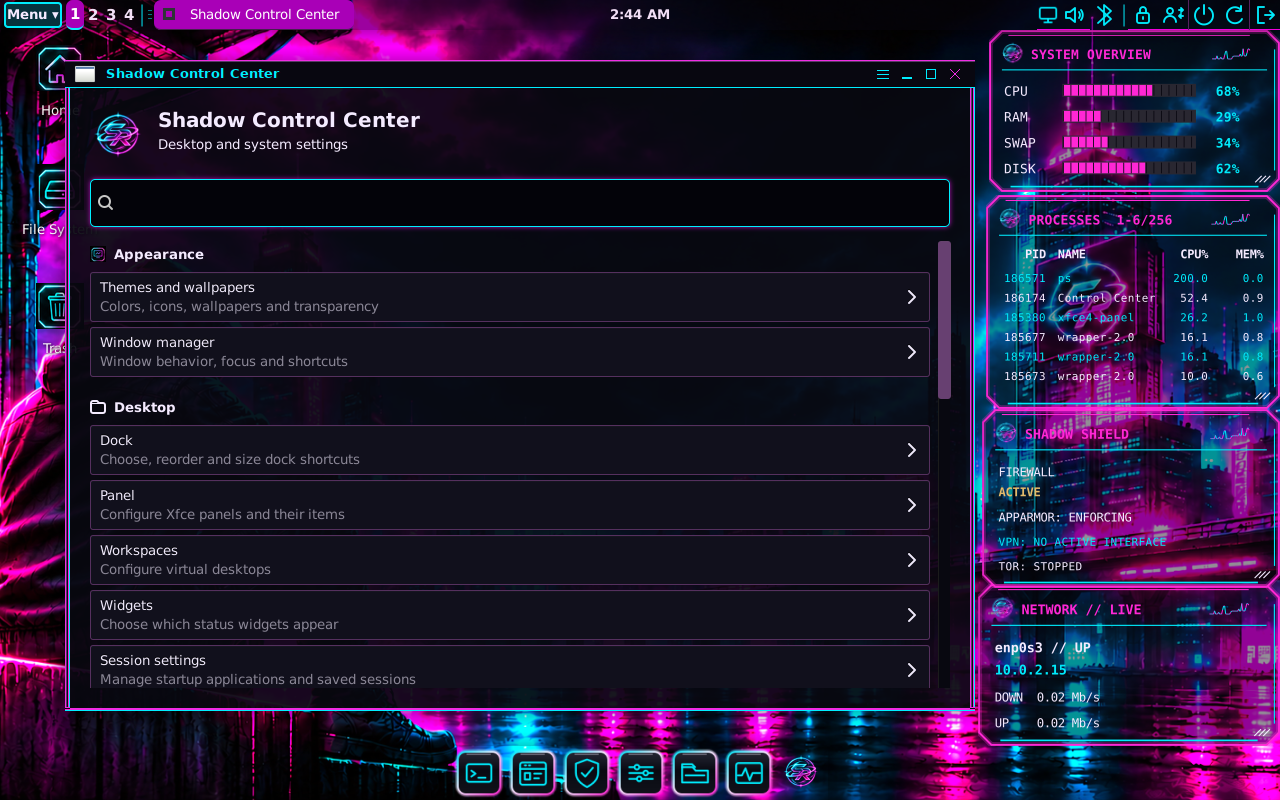
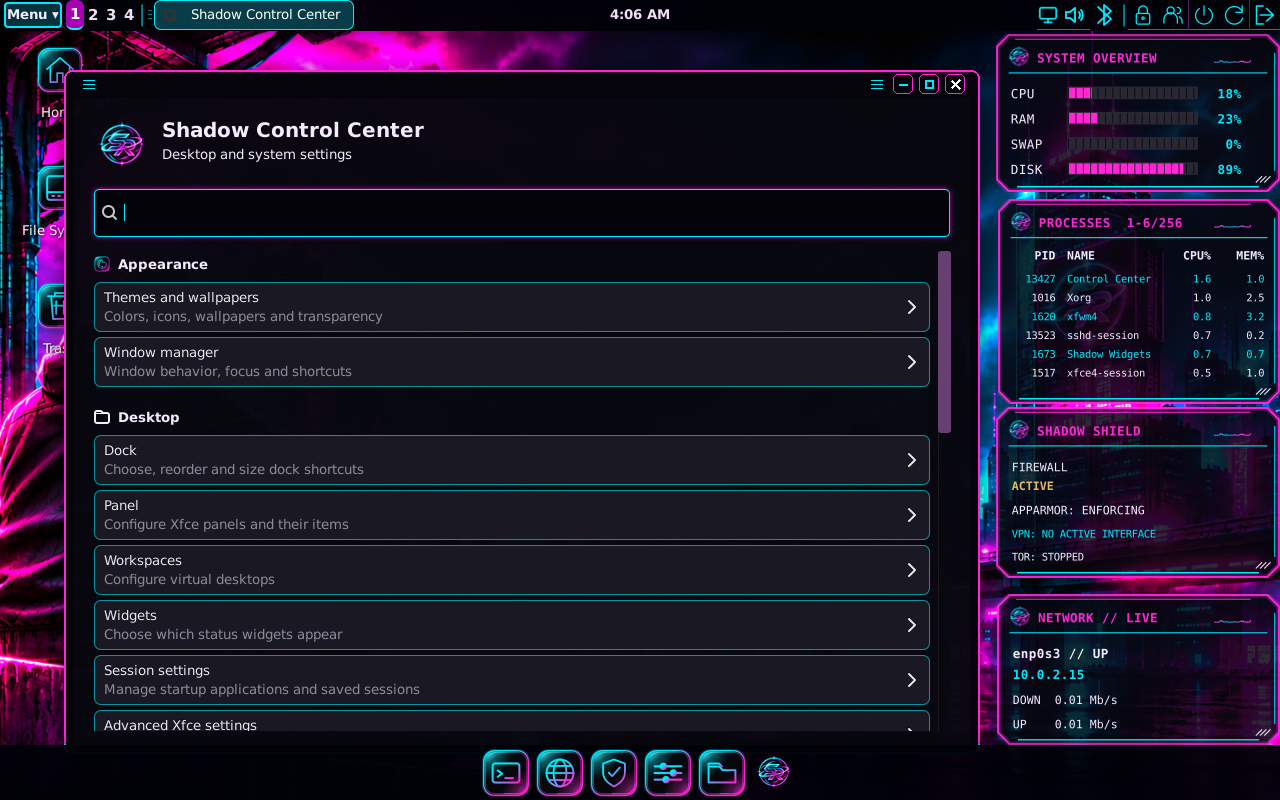
Refresh desktop, Control Center, terminal and system tool screenshots

diff --git a/website/index.html b/website/index.html
@@ -3,9 +3,9 @@
 <style>:root{color-scheme:dark}body{margin:0;background:#080a10;color:#e8edf5;font:17px/1.65 system-ui,sans-serif}main{max-width:1120px;margin:auto;padding:32px 24px 70px}a{color:#68e5f2}a:focus-visible{outline:3px solid #ff66d8;outline-offset:5px}.brand{display:block;width:100%;max-width:880px;margin:0 auto 35px}h1,h2{line-height:1.2}h1{font-size:clamp(30px,5vw,52px);max-width:800px}.lede{color:#bdcadc;font-size:21px;max-width:840px}.badge{color:#ff8ce5;font-weight:700}.buttons{display:flex;gap:16px;flex-wrap:wrap;margin:28px 0}.button{padding:12px 20px;border:1px solid #4bd6e7;border-radius:9px;text-decoration:none}.primary{background:#b8f8ff;color:#09141d;font-weight:700}.screen{width:100%;border:1px solid #273044;border-radius:12px;margin:12px 0}.grid{display:grid;grid-template-columns:repeat(auto-fit,minmax(min(100%,270px),1fr));gap:22px}.widget-grid{grid-template-columns:repeat(auto-fit,minmax(min(100%,280px),1fr))}.card{background:#10151f;border:1px solid #273044;border-radius:12px;padding:22px}small,footer{color:#a9b6c9}footer{border-top:1px solid #273044;margin-top:40px;padding-top:22px}li{margin:.45em 0}.tool-gallery{display:flex;gap:20px;overflow-x:auto;scroll-snap-type:x mandatory;padding:4px 0 18px}.tool-gallery figure{flex:0 0 min(100%,900px);margin:0;scroll-snap-align:start;background:#10151f;border:1px solid #273044;border-radius:12px;overflow:hidden}.tool-gallery img{display:block;width:100%;height:auto}.tool-gallery figcaption{padding:14px 18px;color:#bfcbdc}.tool-gallery strong{color:#e8edf5}@media(prefers-reduced-motion:no-preference){.tool-gallery{scroll-behavior:smooth}}</style>
 </head><body>
 <aside role="status" style="max-width:1080px;margin:24px auto;border:1px solid #a88a45;border-radius:10px;background:#211c12;color:#f2dfb0;padding:16px 20px"><strong>Website updates in progress</strong><br>We are reorganizing these pages and refreshing screenshots. Screenshots show the current desktop updates. The current beta download is unchanged.</aside>
-<main><img class="brand" src="https://raw.githubusercontent.com/AstraShadowsss/ShadowRealm-OS/main/branding/banner-neon.png" alt="ShadowRealm-OS SR logo and wordmark"><p class="badge">2026.11 beta 1 · AMD64</p><h1>A familiar Linux desktop with a style of its own.</h1><p class="lede">Built on Debian 13 and Xfce, ShadowRealm-OS brings applications, desktop controls and live status panels into one coordinated workspace. Try it from a USB drive or virtual machine before installing.</p><nav class="buttons"><a class="button primary" href="https://sourceforge.net/projects/shadowrealm-os/files/2026.11-beta1/ShadowRealm-OS-2026.11-beta1-r4-amd64.iso/download">Download the beta ISO</a><a class="button" href="https://astrashadowsss.github.io/ShadowRealm-OS/docs/installation.html">Installation guide</a><a class="button" href="https://github.com/AstraShadowsss/ShadowRealm-OS">Source and documentation</a><a class="button" href="https://shadowrealm-os.sourceforge.io/apt/">Updates &amp; Packages</a></nav><img class="screen" src="https://raw.githubusercontent.com/AstraShadowsss/ShadowRealm-OS/main/screenshots/desktop.png?v=20261123b" alt="Neon desktop with panel, dock and four local widgets">
+<main><img class="brand" src="https://raw.githubusercontent.com/AstraShadowsss/ShadowRealm-OS/main/branding/banner-neon.png" alt="ShadowRealm-OS SR logo and wordmark"><p class="badge">2026.11 beta 1 · AMD64</p><h1>A familiar Linux desktop with a style of its own.</h1><p class="lede">Built on Debian 13 and Xfce, ShadowRealm-OS brings applications, desktop controls and live status panels into one coordinated workspace. Try it from a USB drive or virtual machine before installing.</p><nav class="buttons"><a class="button primary" href="https://sourceforge.net/projects/shadowrealm-os/files/2026.11-beta1/ShadowRealm-OS-2026.11-beta1-r4-amd64.iso/download">Download the beta ISO</a><a class="button" href="https://astrashadowsss.github.io/ShadowRealm-OS/docs/installation.html">Installation guide</a><a class="button" href="https://github.com/AstraShadowsss/ShadowRealm-OS">Source and documentation</a><a class="button" href="https://shadowrealm-os.sourceforge.io/apt/">Updates &amp; Packages</a></nav><img class="screen" src="https://raw.githubusercontent.com/AstraShadowsss/ShadowRealm-OS/main/screenshots/desktop.png?v=20261126" alt="Neon desktop with panel, dock and four local widgets">
 <section class="grid"><article class="card"><h2>Make it yours</h2><p>Twelve coordinated palettes, independent icon and dock choices, drag-and-drop dock editing, separate wallpapers and configurable background transparency. Native third-party application icons stay recognizable. Shadow Icon Studio creates, previews and exports your own application icons in every palette. <a href="https://astrashadowsss.github.io/ShadowRealm-OS/docs/icon-studio.html">Icon Studio guide</a>.</p></article><article class="card"><h2>Everyday controls</h2><p>Network, audio, Bluetooth, accounts, appearance and software tools. Movable widgets display resources, traffic, processes and privacy-service status. Optional widgets add a clock, calendar, local notes and a weather forecast.</p></article><article class="card"><h2>Updates you control</h2><p>Debian and configured vendors provide their updates. A signed repository supplies custom desktop components and nine offline games. Software &amp; Updates shows available APT updates; Flatpak updates are separate.</p></article></section>
-<section id="terminal"><h2>Terminal</h2><p>A familiar shell with live system information, adjustable text and desktop-matched colors.</p><img class="screen" src="https://raw.githubusercontent.com/AstraShadowsss/ShadowRealm-OS/main/screenshots/terminal-current.png?v=20261123b" alt="Terminal running on the current desktop" loading="lazy"></section><h2>Control Center</h2><p>Network, audio, Bluetooth, accounts, appearance and software tools in one place.</p><img class="screen" src="https://raw.githubusercontent.com/AstraShadowsss/ShadowRealm-OS/main/screenshots/control-center-neon.png?v=20261123b" alt="Searchable Control Center in Neon" loading="lazy"><section id="widgets"><h2>Desktop widgets</h2><p>Eight independent widgets, shown together in Professional styling. They follow your desktop theme and can be moved, resized and customized separately.</p><section class="grid widget-grid"><article class="card"><h3>System overview</h3><a href="https://raw.githubusercontent.com/AstraShadowsss/ShadowRealm-OS/main/screenshots/widgets/system.png" target="_blank" rel="noopener"><img style="display:block;width:100%;max-width:270px;height:auto;border-radius:12px;margin:16px auto" src="https://raw.githubusercontent.com/AstraShadowsss/ShadowRealm-OS/main/screenshots/widgets/system.png" alt="System overview widget" loading="lazy"></a><p>CPU, memory, swap and system disk usage.</p></article><article class="card"><h3>Network</h3><a href="https://raw.githubusercontent.com/AstraShadowsss/ShadowRealm-OS/main/screenshots/widgets/network.png" target="_blank" rel="noopener"><img style="display:block;width:100%;max-width:270px;height:auto;border-radius:12px;margin:16px auto" src="https://raw.githubusercontent.com/AstraShadowsss/ShadowRealm-OS/main/screenshots/widgets/network.png" alt="Network widget" loading="lazy"></a><p>Active interface, address and live transfer rates in Mb/s.</p></article><article class="card"><h3>Processes</h3><a href="https://raw.githubusercontent.com/AstraShadowsss/ShadowRealm-OS/main/screenshots/widgets/processes.png" target="_blank" rel="noopener"><img style="display:block;width:100%;max-width:270px;height:auto;border-radius:12px;margin:16px auto" src="https://raw.githubusercontent.com/AstraShadowsss/ShadowRealm-OS/main/screenshots/widgets/processes.png" alt="Processes widget" loading="lazy"></a><p>Process names, PIDs, CPU and memory usage.</p></article><article class="card"><h3>Shadow Shield</h3><a href="https://raw.githubusercontent.com/AstraShadowsss/ShadowRealm-OS/main/screenshots/widgets/shield.png" target="_blank" rel="noopener"><img style="display:block;width:100%;max-width:270px;height:auto;border-radius:12px;margin:16px auto" src="https://raw.githubusercontent.com/AstraShadowsss/ShadowRealm-OS/main/screenshots/widgets/shield.png" alt="Shadow Shield widget" loading="lazy"></a><p>Firewall, AppArmor, Tor and VPN service status.</p></article><article class="card"><h3>Clock</h3><a href="https://raw.githubusercontent.com/AstraShadowsss/ShadowRealm-OS/main/screenshots/widgets/clock.png" target="_blank" rel="noopener"><img style="display:block;width:100%;max-width:270px;height:auto;border-radius:12px;margin:16px auto" src="https://raw.githubusercontent.com/AstraShadowsss/ShadowRealm-OS/main/screenshots/widgets/clock.png" alt="Clock widget" loading="lazy"></a><p>An independent, easy-to-read local clock.</p></article><article class="card"><h3>Calendar</h3><a href="https://raw.githubusercontent.com/AstraShadowsss/ShadowRealm-OS/main/screenshots/widgets/calendar.png" target="_blank" rel="noopener"><img style="display:block;width:100%;max-width:270px;height:auto;border-radius:12px;margin:16px auto" src="https://raw.githubusercontent.com/AstraShadowsss/ShadowRealm-OS/main/screenshots/widgets/calendar.png" alt="Calendar widget" loading="lazy"></a><p>Month view with today&#x27;s date highlighted.</p></article><article class="card"><h3>Notes</h3><a href="https://raw.githubusercontent.com/AstraShadowsss/ShadowRealm-OS/main/screenshots/widgets/notes.png" target="_blank" rel="noopener"><img style="display:block;width:100%;max-width:270px;height:auto;border-radius:12px;margin:16px auto" src="https://raw.githubusercontent.com/AstraShadowsss/ShadowRealm-OS/main/screenshots/widgets/notes.png" alt="Notes widget" loading="lazy"></a><p>A small place to keep local notes and reminders.</p></article><article class="card"><h3>Weather</h3><a href="https://raw.githubusercontent.com/AstraShadowsss/ShadowRealm-OS/main/screenshots/widgets/weather.png" target="_blank" rel="noopener"><img style="display:block;width:100%;max-width:270px;height:auto;border-radius:12px;margin:16px auto" src="https://raw.githubusercontent.com/AstraShadowsss/ShadowRealm-OS/main/screenshots/widgets/weather.png" alt="Weather widget" loading="lazy"></a><p>An optional forecast for a manually chosen location.</p></article></section><details class="card widget-customization"><summary>Arrange and customize your widgets</summary><p>Choose which panels appear, adjust their text, graph and bar colors, and set background transparency. Theme follows the shared background setting in Appearance.</p><img class="screen" src="https://raw.githubusercontent.com/AstraShadowsss/ShadowRealm-OS/main/screenshots/widget-customization.png?v=20261123b" alt="Current widget controls in the Professional desktop" loading="lazy"></details><p><a href="https://astrashadowsss.github.io/ShadowRealm-OS/docs/widgets.html">Explore the widget controls</a></p></section><h2>System tools</h2><p>Scroll through the panels, or select an image to open it at full size.</p><nav class="buttons" aria-label="System tool previews"><a class="button" href="#tools-network">Network</a><a class="button" href="#tools-shield">Shadow Shield</a><a class="button" href="#tools-software-updates">Software &amp; Updates</a></nav><div class="tool-gallery" tabindex="0" aria-label="System tool screenshots"><figure id="tools-network"><a href="https://raw.githubusercontent.com/AstraShadowsss/ShadowRealm-OS/main/screenshots/system-tools/network.png?v=20261123b" target="_blank" rel="noopener"><img src="https://raw.githubusercontent.com/AstraShadowsss/ShadowRealm-OS/main/screenshots/system-tools/network.png?v=20261123b" alt="Network window" width="1100" height="650" loading="lazy"></a><figcaption><strong>Network</strong><br>Connection, Wi-Fi, DNS, VPN and airplane mode.</figcaption></figure><figure id="tools-shield"><a href="https://raw.githubusercontent.com/AstraShadowsss/ShadowRealm-OS/main/screenshots/system-tools/shield.png?v=20261123b" target="_blank" rel="noopener"><img src="https://raw.githubusercontent.com/AstraShadowsss/ShadowRealm-OS/main/screenshots/system-tools/shield.png?v=20261123b" alt="Shadow Shield window" width="1100" height="650" loading="lazy"></a><figcaption><strong>Shadow Shield</strong><br>Firewall rules and privacy-service controls.</figcaption></figure><figure id="tools-software-updates"><a href="https://raw.githubusercontent.com/AstraShadowsss/ShadowRealm-OS/main/screenshots/system-tools/software-updates.png?v=20261123b" target="_blank" rel="noopener"><img src="https://raw.githubusercontent.com/AstraShadowsss/ShadowRealm-OS/main/screenshots/system-tools/software-updates.png?v=20261123b" alt="Software &amp; Updates window" width="1100" height="650" loading="lazy"></a><figcaption><strong>Software &amp; Updates</strong><br>Installed applications, package removal and updates.</figcaption></figure></div><section id="applications"><h2>Applications</h2><p>Search and browse installed applications by category. The dock keeps the shortcuts you choose.</p><img class="screen" src="https://raw.githubusercontent.com/AstraShadowsss/ShadowRealm-OS/main/screenshots/application-menu.png?v=20261123b" alt="Categorized application menu" loading="lazy"></section><section id="icon-studio"><h2>Shadow Icon Studio</h2><p>Load your own artwork or the built-in Prism sample, then see it in all twelve palettes before changing anything. Apply an icon to a chosen application, save it to a personal library, or export it as SVG and PNG files for use elsewhere. No account, network connection or administrator rights are needed.</p><img class="screen" src="https://raw.githubusercontent.com/AstraShadowsss/ShadowRealm-OS/main/screenshots/icon-studio.png?v=20261126" alt="Shadow Icon Studio showing the Prism sample with all twelve palette previews" loading="lazy"><p><a href="https://astrashadowsss.github.io/ShadowRealm-OS/docs/icon-studio.html">Read the Icon Studio guide</a></p></section><section id="games"><h2>Games</h2><p>Nine lightweight arcade and card games, with local scores and settings. No accounts or advertisements. Scroll through the collection or open a screenshot for a closer look.</p><div class="game-navigation"><button type="button" class="game-previous" aria-label="Previous game">← Previous</button><button type="button" class="game-next" aria-label="Next game">Next →</button></div><div class="game-strip" tabindex="0" role="region" aria-label="Offline games"><figure class="game-card"><a href="https://raw.githubusercontent.com/AstraShadowsss/ShadowRealm-OS/main/screenshots/games/shadow-pinball.png" target="_blank" rel="noopener"><img src="https://raw.githubusercontent.com/AstraShadowsss/ShadowRealm-OS/main/screenshots/games/shadow-pinball.png" alt="Shadow Pinball gameplay" loading="lazy"></a><figcaption><strong>Shadow Pinball</strong><span>Pinball</span></figcaption></figure><figure class="game-card"><a href="https://raw.githubusercontent.com/AstraShadowsss/ShadowRealm-OS/main/screenshots/games/skull-invaders.png?v=20261122games" target="_blank" rel="noopener"><img src="https://raw.githubusercontent.com/AstraShadowsss/ShadowRealm-OS/main/screenshots/games/skull-invaders.png?v=20261122games" alt="Skull Invaders gameplay" loading="lazy"></a><figcaption><strong>Skull Invaders</strong><span>Arcade shooter</span></figcaption></figure><figure class="game-card"><a href="https://raw.githubusercontent.com/AstraShadowsss/ShadowRealm-OS/main/screenshots/games/shadow-runner.png" target="_blank" rel="noopener"><img src="https://raw.githubusercontent.com/AstraShadowsss/ShadowRealm-OS/main/screenshots/games/shadow-runner.png" alt="Shadow Runner gameplay" loading="lazy"></a><figcaption><strong>Shadow Runner</strong><span>Endless runner</span></figcaption></figure><figure class="game-card"><a href="https://raw.githubusercontent.com/AstraShadowsss/ShadowRealm-OS/main/screenshots/games/circuit-chase.png?v=20261122games" target="_blank" rel="noopener"><img src="https://raw.githubusercontent.com/AstraShadowsss/ShadowRealm-OS/main/screenshots/games/circuit-chase.png?v=20261122games" alt="Circuit Chase gameplay" loading="lazy"></a><figcaption><strong>Circuit Chase</strong><span>Maze chase</span></figcaption></figure><figure class="game-card"><a href="https://raw.githubusercontent.com/AstraShadowsss/ShadowRealm-OS/main/screenshots/games/shadow-snake.png" target="_blank" rel="noopener"><img src="https://raw.githubusercontent.com/AstraShadowsss/ShadowRealm-OS/main/screenshots/games/shadow-snake.png" alt="Snake gameplay" loading="lazy"></a><figcaption><strong>Snake</strong><span>Grid arcade</span></figcaption></figure><figure class="game-card"><a href="https://raw.githubusercontent.com/AstraShadowsss/ShadowRealm-OS/main/screenshots/games/shadow-solitaire.png" target="_blank" rel="noopener"><img src="https://raw.githubusercontent.com/AstraShadowsss/ShadowRealm-OS/main/screenshots/games/shadow-solitaire.png" alt="Shadow Spider Solitaire gameplay" loading="lazy"></a><figcaption><strong>Shadow Spider Solitaire</strong><span>Card game</span></figcaption></figure><figure class="game-card"><a href="https://raw.githubusercontent.com/AstraShadowsss/ShadowRealm-OS/main/screenshots/games/neon-ascent.png" target="_blank" rel="noopener"><img src="https://raw.githubusercontent.com/AstraShadowsss/ShadowRealm-OS/main/screenshots/games/neon-ascent.png" alt="Neon Ascent gameplay" loading="lazy"></a><figcaption><strong>Neon Ascent</strong><span>Platform jumper</span></figcaption></figure><figure class="game-card"><a href="https://raw.githubusercontent.com/AstraShadowsss/ShadowRealm-OS/main/screenshots/games/neon-breaker.png" target="_blank" rel="noopener"><img src="https://raw.githubusercontent.com/AstraShadowsss/ShadowRealm-OS/main/screenshots/games/neon-breaker.png" alt="Neon Breaker gameplay" loading="lazy"></a><figcaption><strong>Neon Breaker</strong><span>Brick breaker</span></figcaption></figure><figure class="game-card"><a href="https://raw.githubusercontent.com/AstraShadowsss/ShadowRealm-OS/main/screenshots/games/marble-reactor.png?v=20261122games" target="_blank" rel="noopener"><img src="https://raw.githubusercontent.com/AstraShadowsss/ShadowRealm-OS/main/screenshots/games/marble-reactor.png?v=20261122games" alt="Marble Reactor gameplay" loading="lazy"></a><figcaption><strong>Marble Reactor</strong><span>Marble puzzle</span></figcaption></figure></div><p class="game-position" aria-live="polite"></p><article class="card android-games"><div><h3>Shadow Games for Android</h3><p>Take the nine games with you. The Android preview uses touch controls and plays offline.</p><a class="button" href="https://astrashadowsss.github.io/ShadowRealm-OS/docs/shadow-games-android.html">Android screenshots and installation</a></div><img src="https://raw.githubusercontent.com/AstraShadowsss/ShadowRealm-OS/main/screenshots/android/game-menu.png?v=20261123c" alt="Shadow Games Android games menu" loading="lazy"></article></section>
+<section id="terminal"><h2>Terminal</h2><p>A familiar shell with live system information, adjustable text and desktop-matched colors.</p><img class="screen" src="https://raw.githubusercontent.com/AstraShadowsss/ShadowRealm-OS/main/screenshots/terminal-current.png?v=20261126" alt="Terminal running on the current desktop" loading="lazy"></section><h2>Control Center</h2><p>Network, audio, Bluetooth, accounts, appearance and software tools in one place.</p><img class="screen" src="https://raw.githubusercontent.com/AstraShadowsss/ShadowRealm-OS/main/screenshots/control-center-neon.png?v=20261126" alt="Searchable Control Center in Neon" loading="lazy"><section id="widgets"><h2>Desktop widgets</h2><p>Eight independent widgets, shown together in Professional styling. They follow your desktop theme and can be moved, resized and customized separately.</p><section class="grid widget-grid"><article class="card"><h3>System overview</h3><a href="https://raw.githubusercontent.com/AstraShadowsss/ShadowRealm-OS/main/screenshots/widgets/system.png" target="_blank" rel="noopener"><img style="display:block;width:100%;max-width:270px;height:auto;border-radius:12px;margin:16px auto" src="https://raw.githubusercontent.com/AstraShadowsss/ShadowRealm-OS/main/screenshots/widgets/system.png" alt="System overview widget" loading="lazy"></a><p>CPU, memory, swap and system disk usage.</p></article><article class="card"><h3>Network</h3><a href="https://raw.githubusercontent.com/AstraShadowsss/ShadowRealm-OS/main/screenshots/widgets/network.png" target="_blank" rel="noopener"><img style="display:block;width:100%;max-width:270px;height:auto;border-radius:12px;margin:16px auto" src="https://raw.githubusercontent.com/AstraShadowsss/ShadowRealm-OS/main/screenshots/widgets/network.png" alt="Network widget" loading="lazy"></a><p>Active interface, address and live transfer rates in Mb/s.</p></article><article class="card"><h3>Processes</h3><a href="https://raw.githubusercontent.com/AstraShadowsss/ShadowRealm-OS/main/screenshots/widgets/processes.png" target="_blank" rel="noopener"><img style="display:block;width:100%;max-width:270px;height:auto;border-radius:12px;margin:16px auto" src="https://raw.githubusercontent.com/AstraShadowsss/ShadowRealm-OS/main/screenshots/widgets/processes.png" alt="Processes widget" loading="lazy"></a><p>Process names, PIDs, CPU and memory usage.</p></article><article class="card"><h3>Shadow Shield</h3><a href="https://raw.githubusercontent.com/AstraShadowsss/ShadowRealm-OS/main/screenshots/widgets/shield.png" target="_blank" rel="noopener"><img style="display:block;width:100%;max-width:270px;height:auto;border-radius:12px;margin:16px auto" src="https://raw.githubusercontent.com/AstraShadowsss/ShadowRealm-OS/main/screenshots/widgets/shield.png" alt="Shadow Shield widget" loading="lazy"></a><p>Firewall, AppArmor, Tor and VPN service status.</p></article><article class="card"><h3>Clock</h3><a href="https://raw.githubusercontent.com/AstraShadowsss/ShadowRealm-OS/main/screenshots/widgets/clock.png" target="_blank" rel="noopener"><img style="display:block;width:100%;max-width:270px;height:auto;border-radius:12px;margin:16px auto" src="https://raw.githubusercontent.com/AstraShadowsss/ShadowRealm-OS/main/screenshots/widgets/clock.png" alt="Clock widget" loading="lazy"></a><p>An independent, easy-to-read local clock.</p></article><article class="card"><h3>Calendar</h3><a href="https://raw.githubusercontent.com/AstraShadowsss/ShadowRealm-OS/main/screenshots/widgets/calendar.png" target="_blank" rel="noopener"><img style="display:block;width:100%;max-width:270px;height:auto;border-radius:12px;margin:16px auto" src="https://raw.githubusercontent.com/AstraShadowsss/ShadowRealm-OS/main/screenshots/widgets/calendar.png" alt="Calendar widget" loading="lazy"></a><p>Month view with today&#x27;s date highlighted.</p></article><article class="card"><h3>Notes</h3><a href="https://raw.githubusercontent.com/AstraShadowsss/ShadowRealm-OS/main/screenshots/widgets/notes.png" target="_blank" rel="noopener"><img style="display:block;width:100%;max-width:270px;height:auto;border-radius:12px;margin:16px auto" src="https://raw.githubusercontent.com/AstraShadowsss/ShadowRealm-OS/main/screenshots/widgets/notes.png" alt="Notes widget" loading="lazy"></a><p>A small place to keep local notes and reminders.</p></article><article class="card"><h3>Weather</h3><a href="https://raw.githubusercontent.com/AstraShadowsss/ShadowRealm-OS/main/screenshots/widgets/weather.png" target="_blank" rel="noopener"><img style="display:block;width:100%;max-width:270px;height:auto;border-radius:12px;margin:16px auto" src="https://raw.githubusercontent.com/AstraShadowsss/ShadowRealm-OS/main/screenshots/widgets/weather.png" alt="Weather widget" loading="lazy"></a><p>An optional forecast for a manually chosen location.</p></article></section><details class="card widget-customization"><summary>Arrange and customize your widgets</summary><p>Choose which panels appear, adjust their text, graph and bar colors, and set background transparency. Theme follows the shared background setting in Appearance.</p><img class="screen" src="https://raw.githubusercontent.com/AstraShadowsss/ShadowRealm-OS/main/screenshots/widget-customization.png?v=20261126" alt="Current widget controls in the Professional desktop" loading="lazy"></details><p><a href="https://astrashadowsss.github.io/ShadowRealm-OS/docs/widgets.html">Explore the widget controls</a></p></section><h2>System tools</h2><p>Scroll through the panels, or select an image to open it at full size.</p><nav class="buttons" aria-label="System tool previews"><a class="button" href="#tools-network">Network</a><a class="button" href="#tools-shield">Shadow Shield</a><a class="button" href="#tools-software-updates">Software &amp; Updates</a></nav><div class="tool-gallery" tabindex="0" aria-label="System tool screenshots"><figure id="tools-network"><a href="https://raw.githubusercontent.com/AstraShadowsss/ShadowRealm-OS/main/screenshots/system-tools/network.png?v=20261126" target="_blank" rel="noopener"><img src="https://raw.githubusercontent.com/AstraShadowsss/ShadowRealm-OS/main/screenshots/system-tools/network.png?v=20261126" alt="Network window" width="1100" height="650" loading="lazy"></a><figcaption><strong>Network</strong><br>Connection, Wi-Fi, DNS, VPN and airplane mode.</figcaption></figure><figure id="tools-shield"><a href="https://raw.githubusercontent.com/AstraShadowsss/ShadowRealm-OS/main/screenshots/system-tools/shield.png?v=20261126" target="_blank" rel="noopener"><img src="https://raw.githubusercontent.com/AstraShadowsss/ShadowRealm-OS/main/screenshots/system-tools/shield.png?v=20261126" alt="Shadow Shield window" width="1100" height="650" loading="lazy"></a><figcaption><strong>Shadow Shield</strong><br>Firewall rules and privacy-service controls.</figcaption></figure><figure id="tools-software-updates"><a href="https://raw.githubusercontent.com/AstraShadowsss/ShadowRealm-OS/main/screenshots/system-tools/software-updates.png?v=20261126" target="_blank" rel="noopener"><img src="https://raw.githubusercontent.com/AstraShadowsss/ShadowRealm-OS/main/screenshots/system-tools/software-updates.png?v=20261126" alt="Software &amp; Updates window" width="1100" height="650" loading="lazy"></a><figcaption><strong>Software &amp; Updates</strong><br>Installed applications, package removal and updates.</figcaption></figure></div><section id="applications"><h2>Applications</h2><p>Search and browse installed applications by category. The dock keeps the shortcuts you choose.</p><img class="screen" src="https://raw.githubusercontent.com/AstraShadowsss/ShadowRealm-OS/main/screenshots/application-menu.png?v=20261126" alt="Categorized application menu" loading="lazy"></section><section id="icon-studio"><h2>Shadow Icon Studio</h2><p>Load your own artwork or the built-in Prism sample, then see it in all twelve palettes before changing anything. Apply an icon to a chosen application, save it to a personal library, or export it as SVG and PNG files for use elsewhere. No account, network connection or administrator rights are needed.</p><img class="screen" src="https://raw.githubusercontent.com/AstraShadowsss/ShadowRealm-OS/main/screenshots/icon-studio.png?v=20261126" alt="Shadow Icon Studio showing the Prism sample with all twelve palette previews" loading="lazy"><p><a href="https://astrashadowsss.github.io/ShadowRealm-OS/docs/icon-studio.html">Read the Icon Studio guide</a></p></section><section id="games"><h2>Games</h2><p>Nine lightweight arcade and card games, with local scores and settings. No accounts or advertisements. Scroll through the collection or open a screenshot for a closer look.</p><div class="game-navigation"><button type="button" class="game-previous" aria-label="Previous game">← Previous</button><button type="button" class="game-next" aria-label="Next game">Next →</button></div><div class="game-strip" tabindex="0" role="region" aria-label="Offline games"><figure class="game-card"><a href="https://raw.githubusercontent.com/AstraShadowsss/ShadowRealm-OS/main/screenshots/games/shadow-pinball.png" target="_blank" rel="noopener"><img src="https://raw.githubusercontent.com/AstraShadowsss/ShadowRealm-OS/main/screenshots/games/shadow-pinball.png" alt="Shadow Pinball gameplay" loading="lazy"></a><figcaption><strong>Shadow Pinball</strong><span>Pinball</span></figcaption></figure><figure class="game-card"><a href="https://raw.githubusercontent.com/AstraShadowsss/ShadowRealm-OS/main/screenshots/games/skull-invaders.png?v=20261122games" target="_blank" rel="noopener"><img src="https://raw.githubusercontent.com/AstraShadowsss/ShadowRealm-OS/main/screenshots/games/skull-invaders.png?v=20261122games" alt="Skull Invaders gameplay" loading="lazy"></a><figcaption><strong>Skull Invaders</strong><span>Arcade shooter</span></figcaption></figure><figure class="game-card"><a href="https://raw.githubusercontent.com/AstraShadowsss/ShadowRealm-OS/main/screenshots/games/shadow-runner.png" target="_blank" rel="noopener"><img src="https://raw.githubusercontent.com/AstraShadowsss/ShadowRealm-OS/main/screenshots/games/shadow-runner.png" alt="Shadow Runner gameplay" loading="lazy"></a><figcaption><strong>Shadow Runner</strong><span>Endless runner</span></figcaption></figure><figure class="game-card"><a href="https://raw.githubusercontent.com/AstraShadowsss/ShadowRealm-OS/main/screenshots/games/circuit-chase.png?v=20261122games" target="_blank" rel="noopener"><img src="https://raw.githubusercontent.com/AstraShadowsss/ShadowRealm-OS/main/screenshots/games/circuit-chase.png?v=20261122games" alt="Circuit Chase gameplay" loading="lazy"></a><figcaption><strong>Circuit Chase</strong><span>Maze chase</span></figcaption></figure><figure class="game-card"><a href="https://raw.githubusercontent.com/AstraShadowsss/ShadowRealm-OS/main/screenshots/games/shadow-snake.png" target="_blank" rel="noopener"><img src="https://raw.githubusercontent.com/AstraShadowsss/ShadowRealm-OS/main/screenshots/games/shadow-snake.png" alt="Snake gameplay" loading="lazy"></a><figcaption><strong>Snake</strong><span>Grid arcade</span></figcaption></figure><figure class="game-card"><a href="https://raw.githubusercontent.com/AstraShadowsss/ShadowRealm-OS/main/screenshots/games/shadow-solitaire.png" target="_blank" rel="noopener"><img src="https://raw.githubusercontent.com/AstraShadowsss/ShadowRealm-OS/main/screenshots/games/shadow-solitaire.png" alt="Shadow Spider Solitaire gameplay" loading="lazy"></a><figcaption><strong>Shadow Spider Solitaire</strong><span>Card game</span></figcaption></figure><figure class="game-card"><a href="https://raw.githubusercontent.com/AstraShadowsss/ShadowRealm-OS/main/screenshots/games/neon-ascent.png" target="_blank" rel="noopener"><img src="https://raw.githubusercontent.com/AstraShadowsss/ShadowRealm-OS/main/screenshots/games/neon-ascent.png" alt="Neon Ascent gameplay" loading="lazy"></a><figcaption><strong>Neon Ascent</strong><span>Platform jumper</span></figcaption></figure><figure class="game-card"><a href="https://raw.githubusercontent.com/AstraShadowsss/ShadowRealm-OS/main/screenshots/games/neon-breaker.png" target="_blank" rel="noopener"><img src="https://raw.githubusercontent.com/AstraShadowsss/ShadowRealm-OS/main/screenshots/games/neon-breaker.png" alt="Neon Breaker gameplay" loading="lazy"></a><figcaption><strong>Neon Breaker</strong><span>Brick breaker</span></figcaption></figure><figure class="game-card"><a href="https://raw.githubusercontent.com/AstraShadowsss/ShadowRealm-OS/main/screenshots/games/marble-reactor.png?v=20261122games" target="_blank" rel="noopener"><img src="https://raw.githubusercontent.com/AstraShadowsss/ShadowRealm-OS/main/screenshots/games/marble-reactor.png?v=20261122games" alt="Marble Reactor gameplay" loading="lazy"></a><figcaption><strong>Marble Reactor</strong><span>Marble puzzle</span></figcaption></figure></div><p class="game-position" aria-live="polite"></p><article class="card android-games"><div><h3>Shadow Games for Android</h3><p>Take the nine games with you. The Android preview uses touch controls and plays offline.</p><a class="button" href="https://astrashadowsss.github.io/ShadowRealm-OS/docs/shadow-games-android.html">Android screenshots and installation</a></div><img src="https://raw.githubusercontent.com/AstraShadowsss/ShadowRealm-OS/main/screenshots/android/game-menu.png?v=20261123c" alt="Shadow Games Android games menu" loading="lazy"></article></section>
 <style>.game-navigation{display:flex;gap:10px;justify-content:flex-end;margin:16px 0}.game-navigation button{background:#151a26;color:#edf0fa;font:inherit;border:1px solid #56657f;border-radius:8px;padding:10px 16px;cursor:pointer}.game-navigation button:disabled{opacity:.45;cursor:default}.game-strip{display:grid;grid-auto-flow:column;grid-auto-columns:min(88%,620px);gap:18px;overflow-x:auto;scroll-snap-type:x mandatory;scrollbar-color:#6c84a0 #131a26;padding:3px 2px 16px}.game-card{margin:0;background:#10151f;border:1px solid #354057;border-radius:12px;overflow:hidden;scroll-snap-align:start}.game-card img{display:block;width:100%;aspect-ratio:4/3;object-fit:contain;background:#080a10}.game-card figcaption{display:flex;justify-content:space-between;gap:12px;flex-wrap:wrap;padding:14px 18px}.game-card figcaption span,.game-position{color:#b7c5d8}.android-games{display:grid;grid-template-columns:1fr 180px;gap:28px;align-items:center;margin:26px 0}.android-games img{width:100%;border-radius:12px;max-height:280px;object-fit:contain}.android-games .button{display:inline-block;margin:12px 0}.game-navigation button:focus-visible,.game-strip:focus-visible{outline:3px solid #68e5f2;outline-offset:4px}.widget-customization{margin-top:22px}.widget-customization summary{cursor:pointer;font-weight:600}@media(max-width:600px){.game-strip{grid-auto-columns:94%}.android-games{grid-template-columns:1fr}.android-games img{max-width:220px;justify-self:center}}@media(prefers-reduced-motion:no-preference){.game-strip{scroll-behavior:smooth}.button,.gallery-navigation button,.game-navigation button,.gallery-card,.game-card{transition:border-color .18s ease,background-color .18s ease,box-shadow .18s ease}.button:hover,.game-navigation button:hover,.gallery-card:hover,.game-card:hover{border-color:#68e5f2;box-shadow:0 4px 24px #0005}}</style>
 <script>(()=>{const root=document.getElementById('games'),strip=root.querySelector('.game-strip'),cards=[...strip.querySelectorAll('.game-card')],previous=root.querySelector('.game-previous'),next=root.querySelector('.game-next'),position=root.querySelector('.game-position');function selected(){let nearest=0,distance=Infinity;cards.forEach((c,i)=>{const d=Math.abs(c.getBoundingClientRect().left-strip.getBoundingClientRect().left);if(d<distance){nearest=i;distance=d;}});previous.disabled=nearest===0;next.disabled=nearest===cards.length-1;position.textContent=`${nearest+1} of ${cards.length} · ${cards[nearest].querySelector('strong').textContent}`;return nearest;}function move(delta){const target=cards[Math.max(0,Math.min(cards.length-1,selected()+delta))];strip.scrollTo({left:strip.scrollLeft+target.getBoundingClientRect().left-strip.getBoundingClientRect().left-2});}previous.addEventListener('click',()=>move(-1));next.addEventListener('click',()=>move(1));strip.addEventListener('scroll',selected,{passive:true});strip.addEventListener('keydown',e=>{if(e.key==='ArrowLeft'||e.key==='ArrowRight'){e.preventDefault();move(e.key==='ArrowLeft'?-1:1);}});selected();})();</script>
 <!-- APPEARANCE GALLERY START -->
@@ -250,7 +250,7 @@
 <figcaption><strong>Sculpted Silk</strong><span>Professional — Plum</span></figcaption></figure>
 </div>
 <p class="gallery-position" aria-live="polite" aria-atomic="true"></p>
-<div class="professional-showcase" hidden><h3>A quieter workspace</h3><p>Emerald, Ocean, Graphite and Plum accents pair with three sculpted abstract wallpapers. The same desktop controls and widgets use a restrained, unbranded appearance.</p><img class="screen" src="https://raw.githubusercontent.com/AstraShadowsss/ShadowRealm-OS/main/screenshots/professional.png?v=20261123b" alt="Professional desktop with Satin Bloom wallpaper and rounded status widgets" loading="lazy"><img class="screen" src="https://raw.githubusercontent.com/AstraShadowsss/ShadowRealm-OS/main/screenshots/control-center-professional.png?v=20261123b" alt="Control Center in the Professional desktop" loading="lazy"></div>
+<div class="professional-showcase" hidden><h3>A quieter workspace</h3><p>Emerald, Ocean, Graphite and Plum accents pair with three sculpted abstract wallpapers. The same desktop controls and widgets use a restrained, unbranded appearance.</p><img class="screen" src="https://raw.githubusercontent.com/AstraShadowsss/ShadowRealm-OS/main/screenshots/professional.png?v=20261126" alt="Professional desktop with Satin Bloom wallpaper and rounded status widgets" loading="lazy"><img class="screen" src="https://raw.githubusercontent.com/AstraShadowsss/ShadowRealm-OS/main/screenshots/control-center-professional.png?v=20261126" alt="Control Center in the Professional desktop" loading="lazy"></div>
 <noscript><p>Scroll sideways to browse the labeled collection.</p></noscript>
 </section>
 <style>
